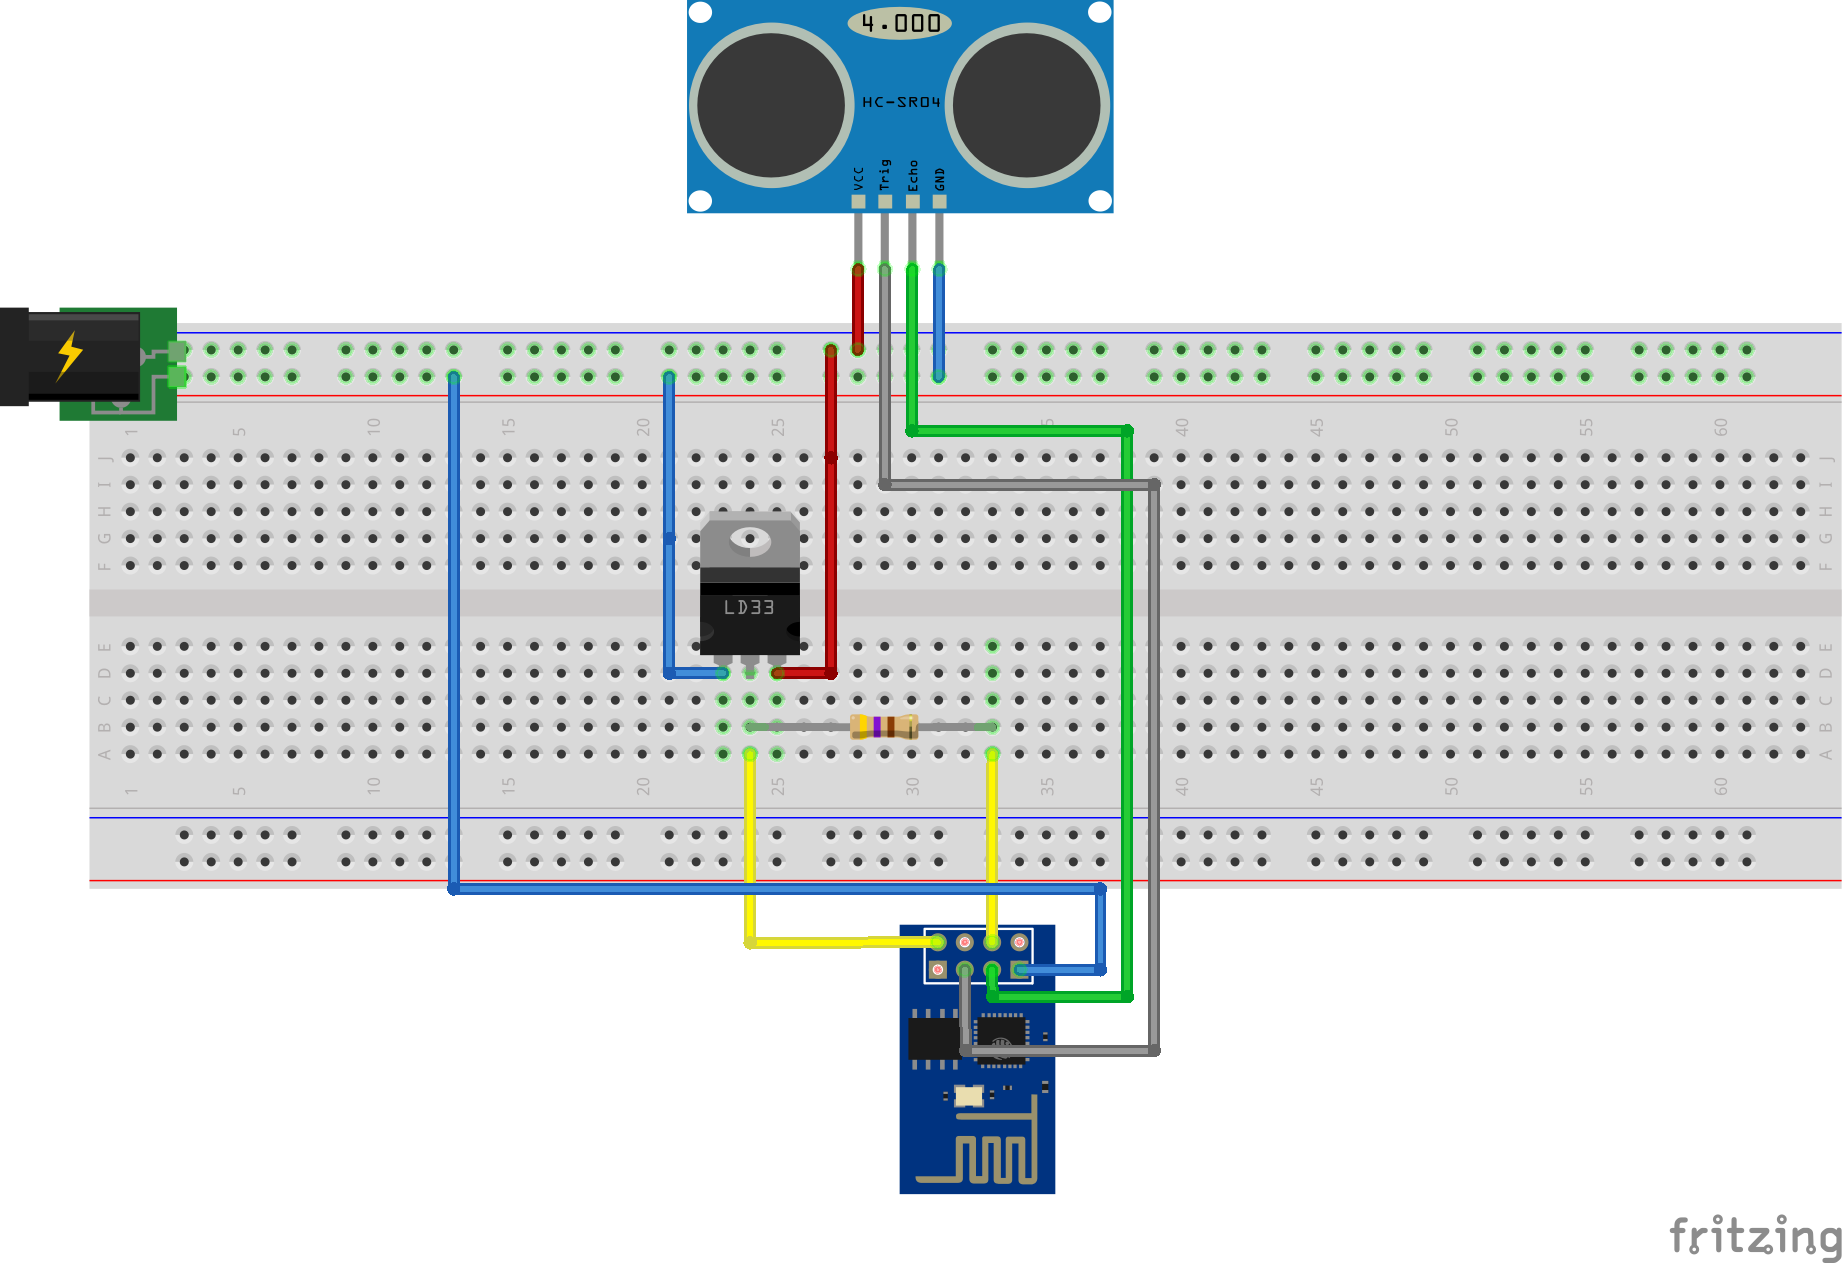
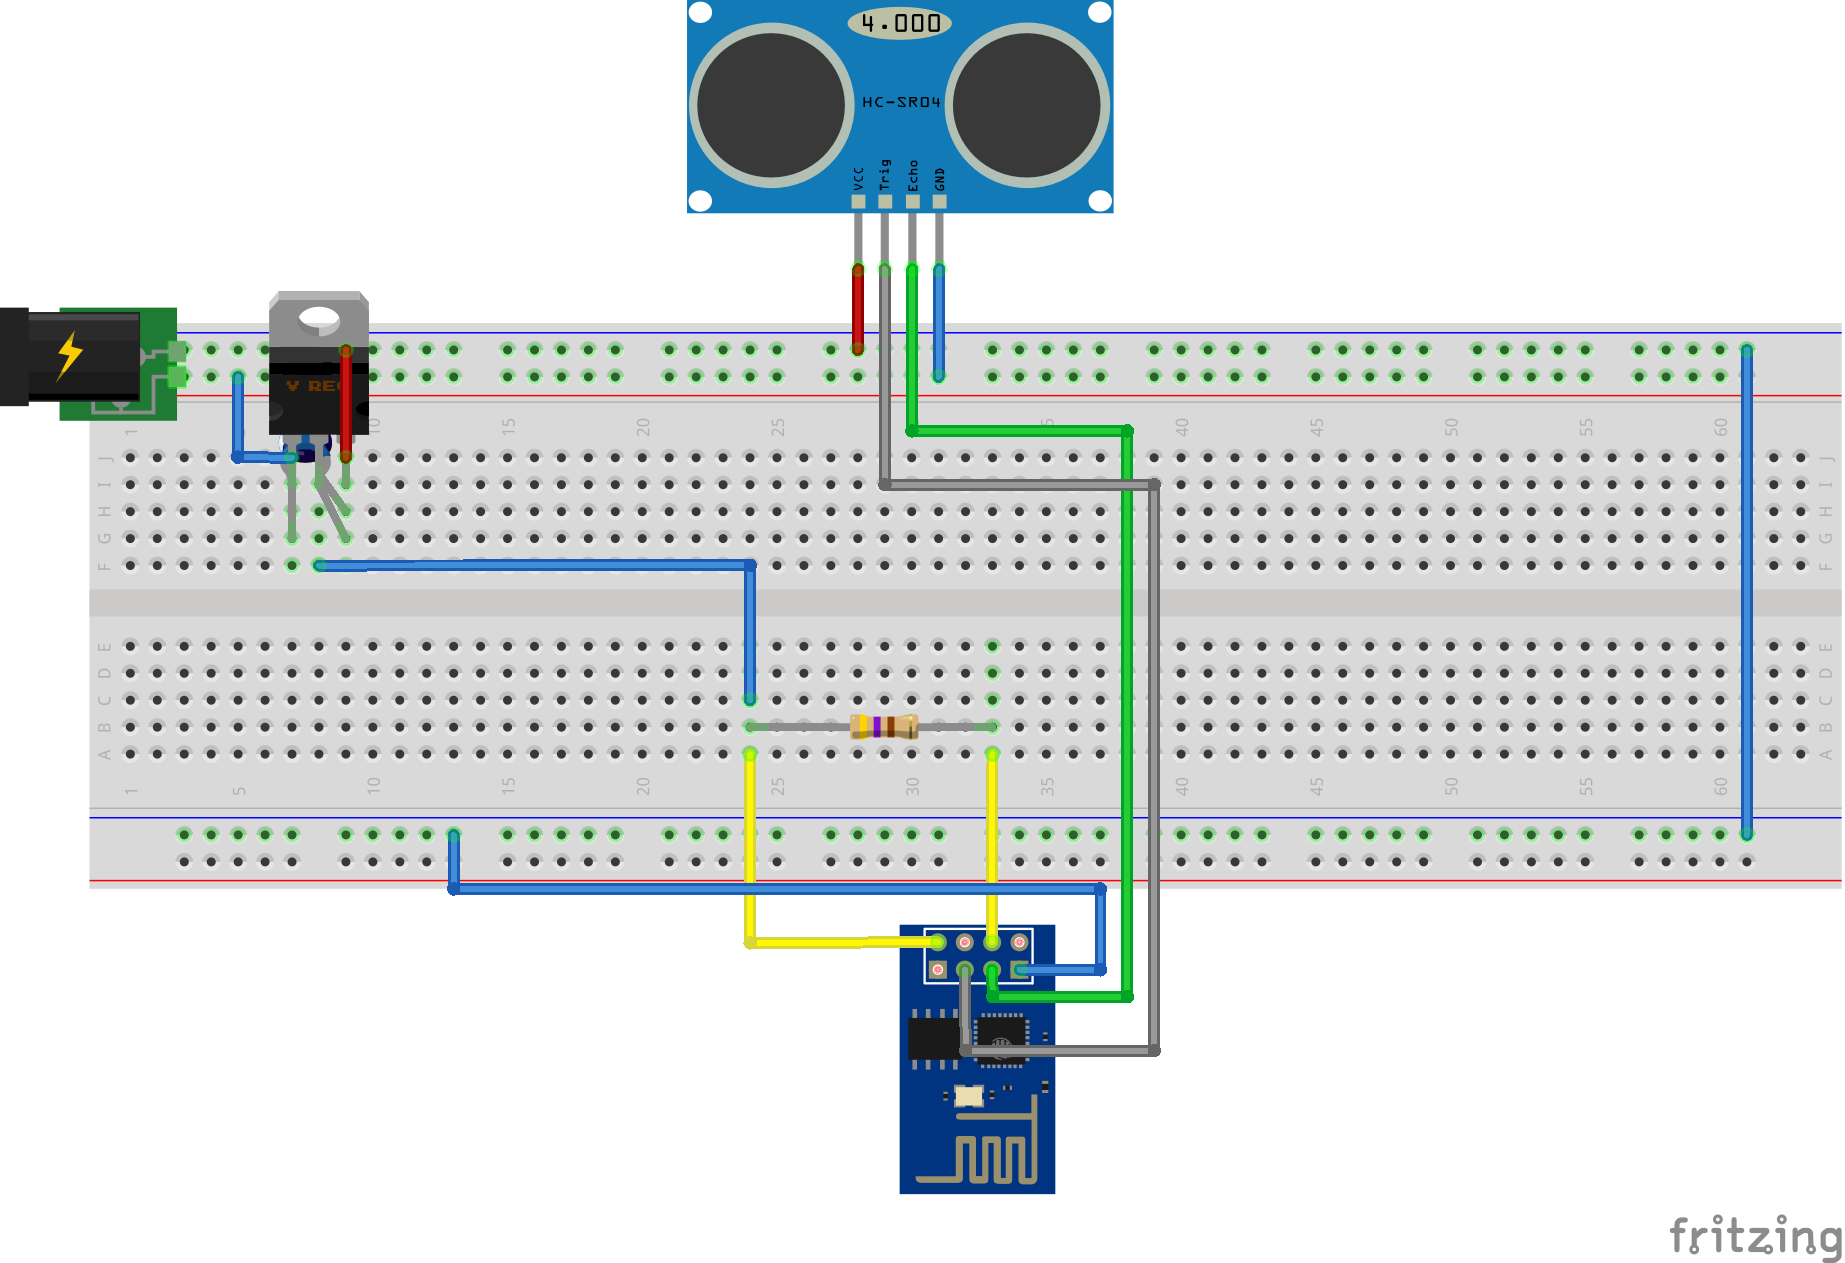
Signed-off-by: Guillermo Sampallo <guille@gmail.com>

diff --git a/README.md b/README.md
@@ -9,3 +9,6 @@ En el archivo test.py se debe cambiar:
 - En la linea 22, se debe reemplazar ip_broker por la ip correcta del broker al que nos vamos a conectar.
 
 En ambos casos deben ser los mismos que los que utilizamos en el sketch del ESP.
+
+UPDATE 19-12-2017
+Se actualizo el diagrama, en lugar de utilizar un regulador lineal, se utiliza un LDO. El del diagrama es un HT7333-A.
